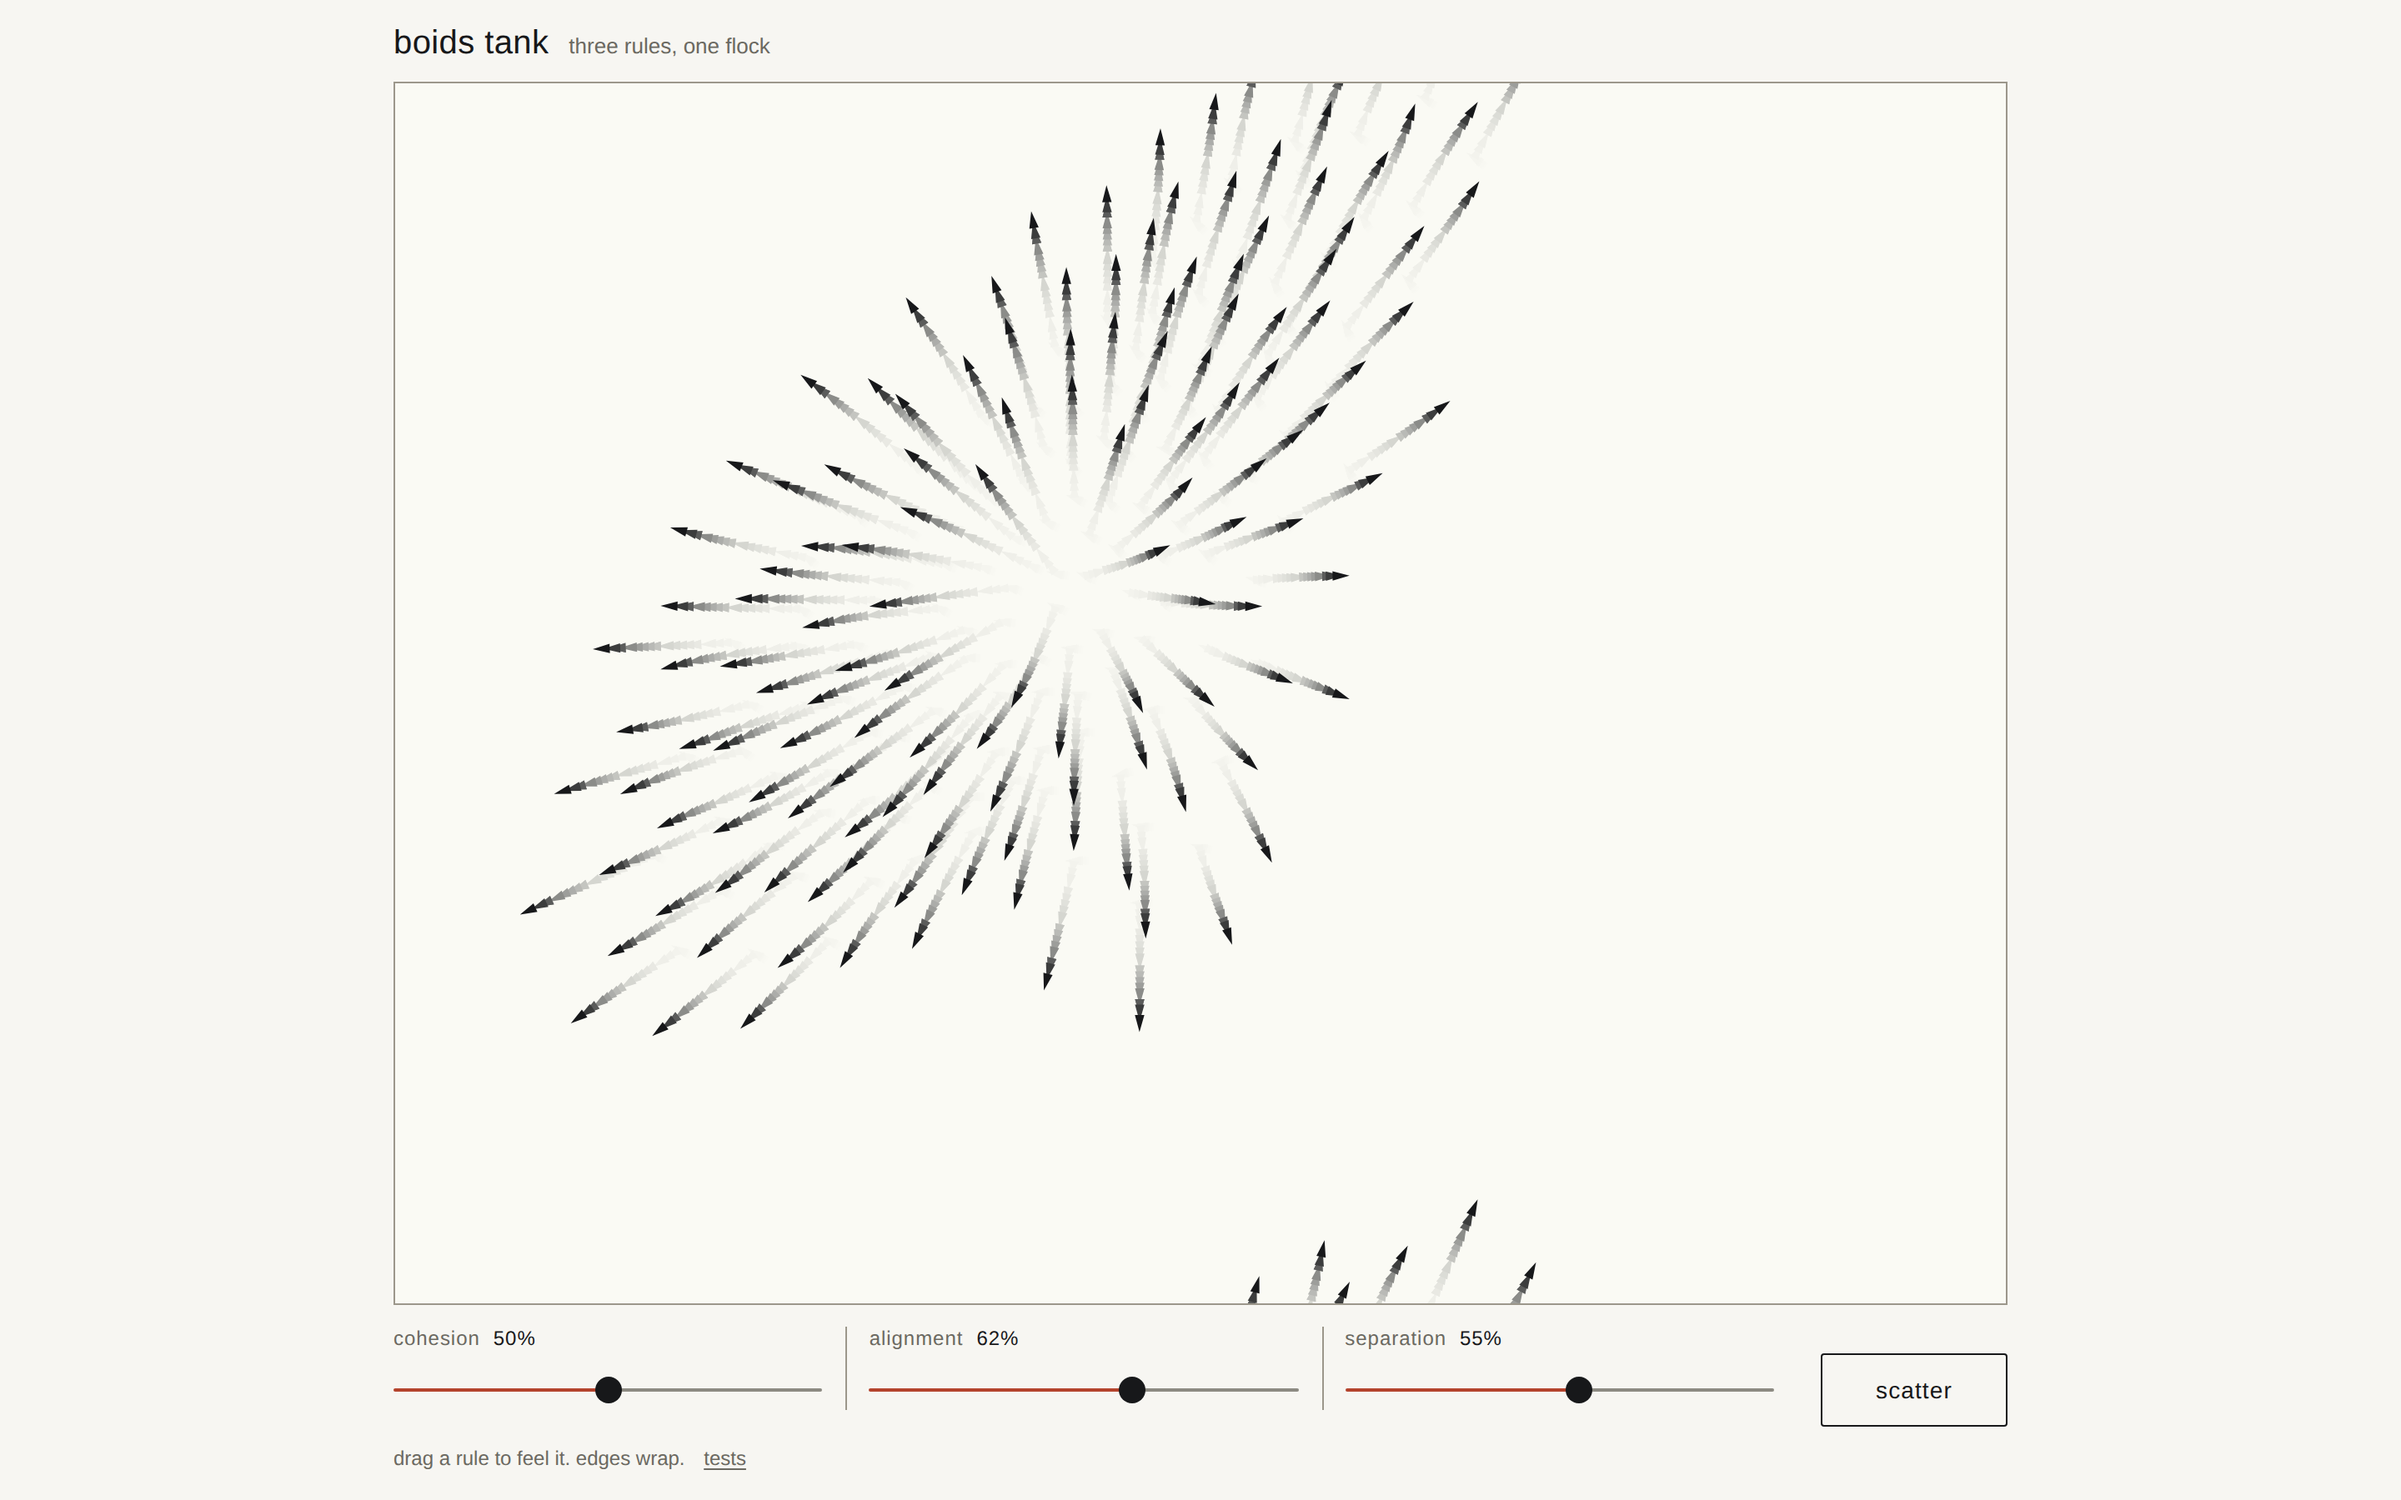
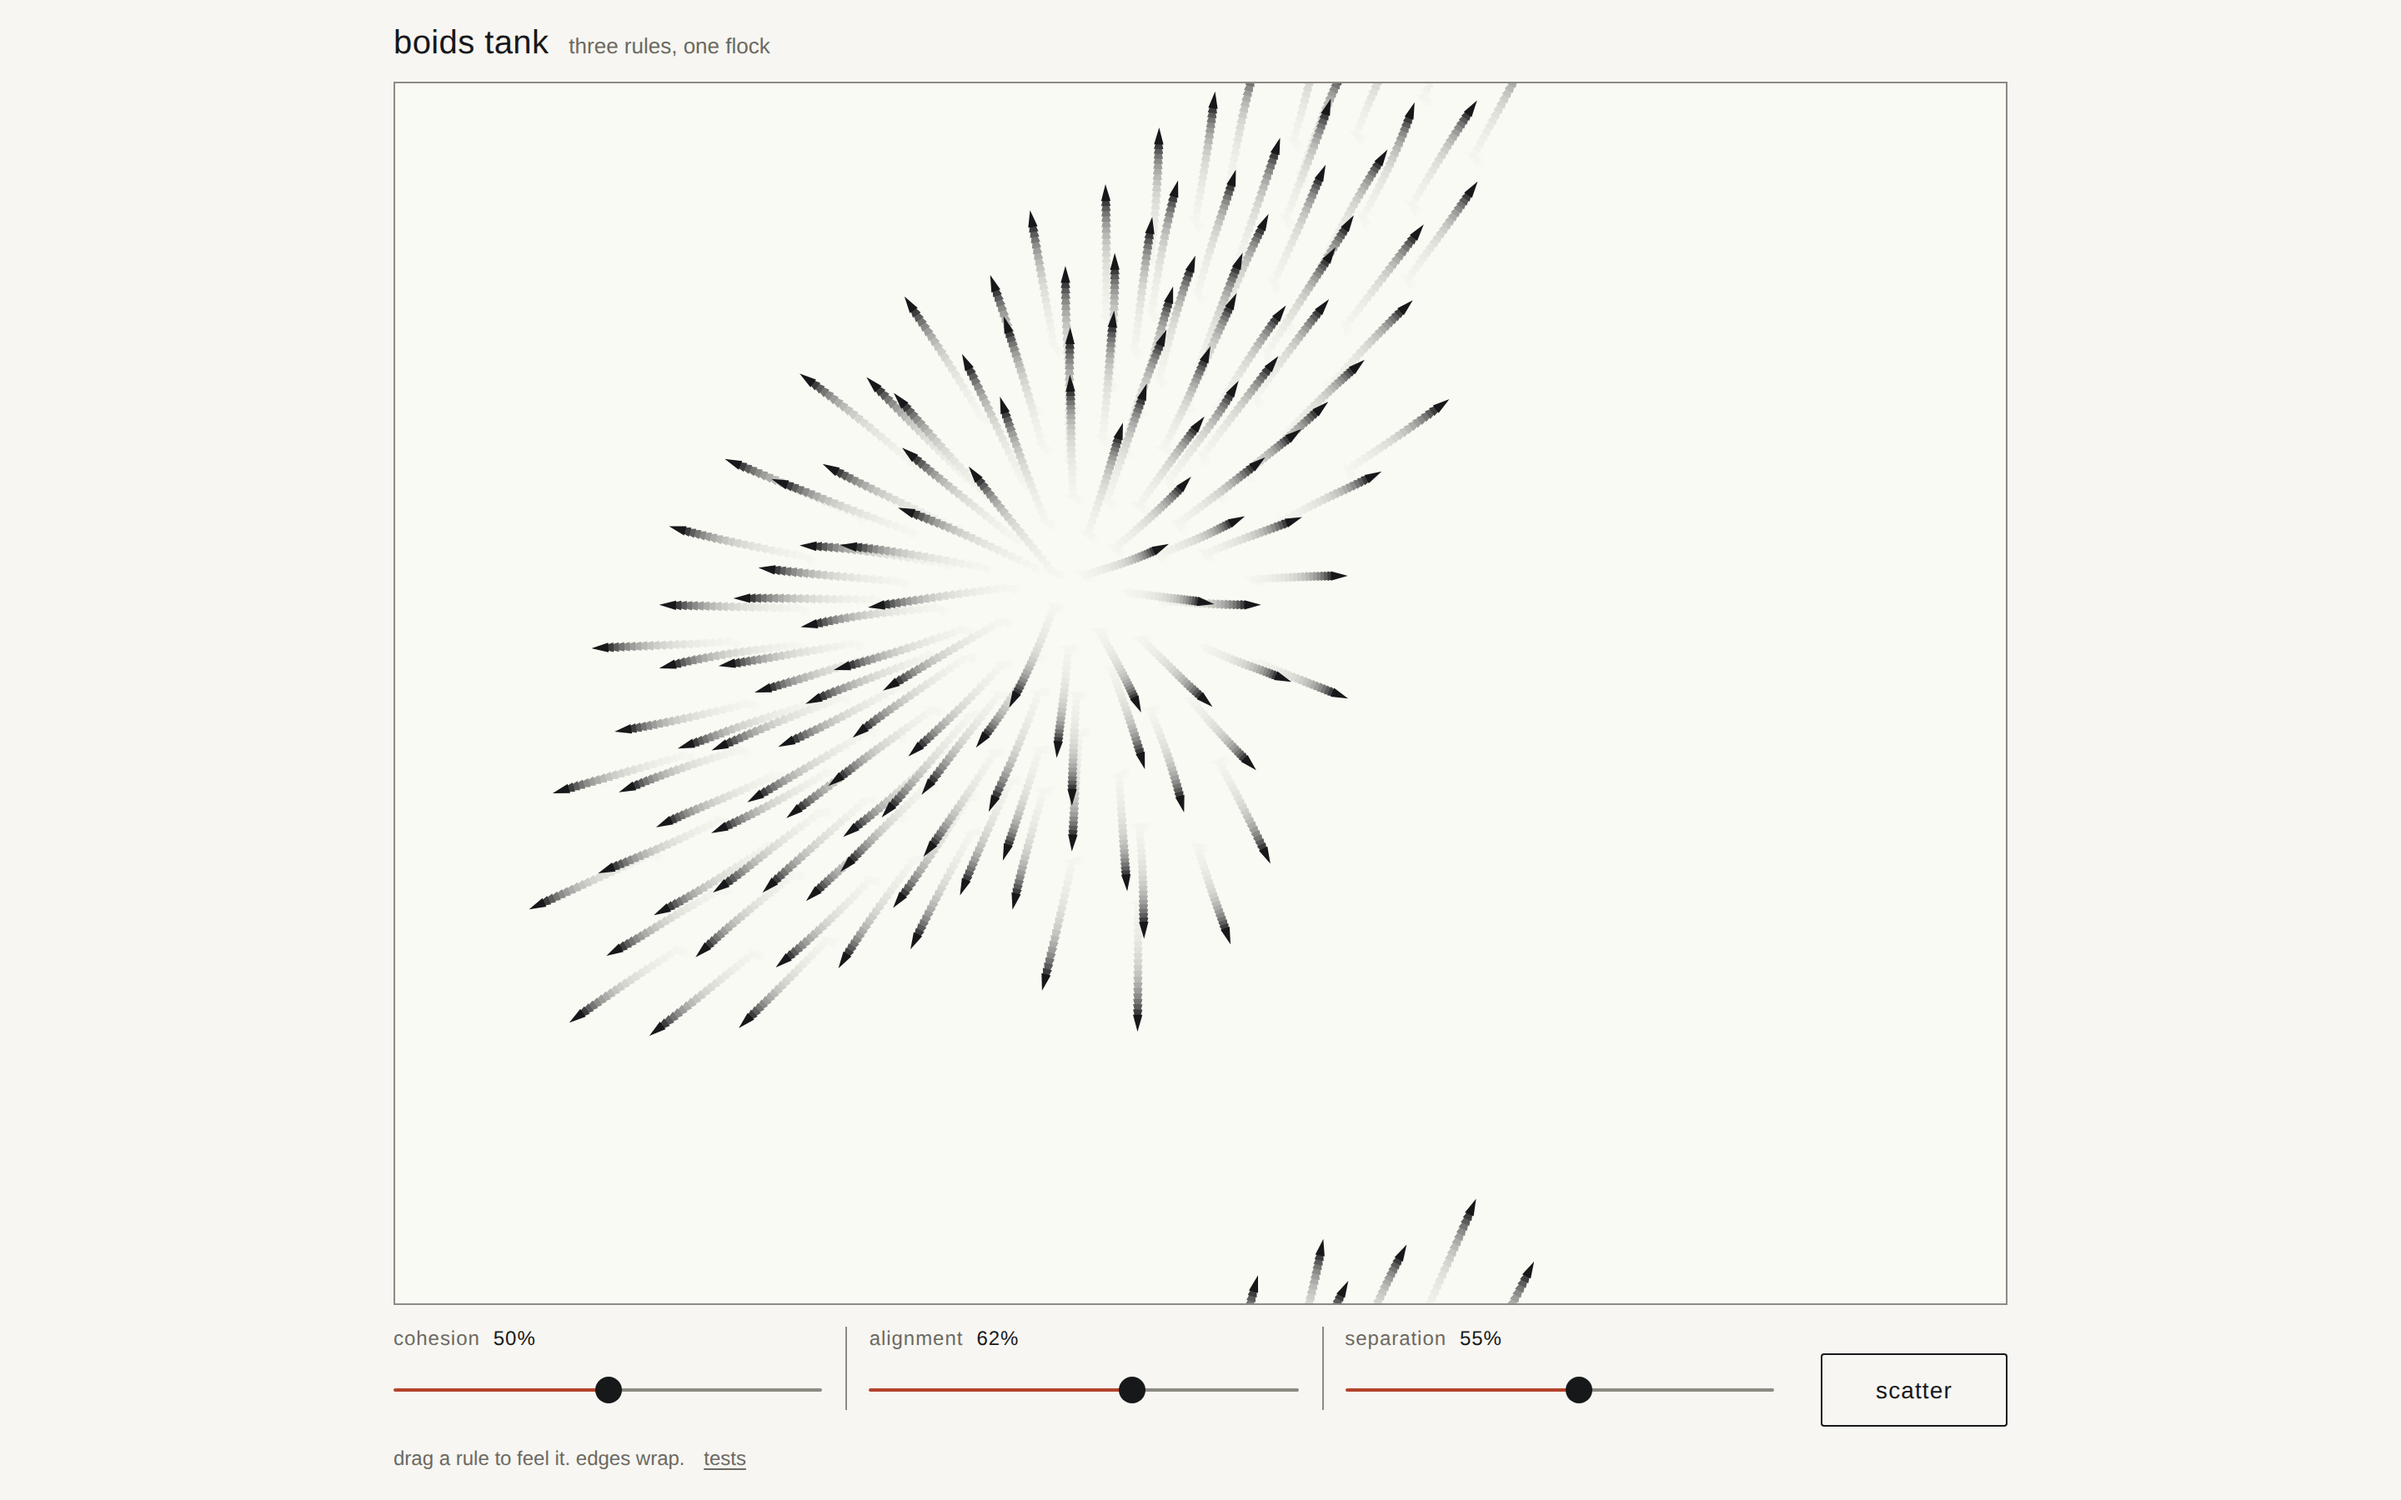
contrast: the edge is the track's weight, not a fourth grey
The re-vote's argument, taken: 2.69:1 was chosen on the theory that a 50px
gutter rule should sit quieter than a 2px track at equal contrast, but it
misses WCAG 1.4.11's 3:1 for a boundary the footer treats as informational
('edges wrap'), and an A/B at 1:1 could not tell #9c978b from the #8c8a82
already in the palette. Two greys half a ratio apart is a token nobody can
see. --edge is now var(--track): 3.20:1, one fewer grey, and the size
difference does the weighting it was always doing.

Also from the re-vote:
- the comment claimed the gutter rule is 32px tall. It is 50px at desktop
  width; 32px is the --rangeH floor and the rule is never that short. The
  reasoning that cited it is gone with it.
- tests.html is reverted to its shipped colours. Renaming the token there
  darkened the #summary box, and no defect was ever filed against the test
  page — it has no tank edge and no gutters to fix.
- screenshot reshot again for the final border, same recipe; alt text now
  places the burst honestly (a little above and left of centre, not 'near
  the middle') and accounts for the darts wrapping in through the bottom
  edge, which a sighted reader can see and the old text did not mention.

diff --git a/index.html b/index.html
@@ -20,11 +20,16 @@
      * own edge and the gutter hairlines between controls. Both were #ddd9d0
      * — 1.30:1 against the paper, under every threshold there is. The footer
      * said "edges wrap" about a border nobody could find, and the separators
-     * came out fainter than the 3.20:1 track they separate. 2.69:1 is a line
-     * you can see while staying quieter than the track, which is correct
-     * weighting rather than a compromise: the gutter rule is 32px tall and
-     * the track is 2px, so equal contrast would not be equal presence. */
-    --edge: #9c978b;
+     * came out fainter than the 3.20:1 track they separate.
+     *
+     * Deliberately the same value as --track rather than a fourth grey. The
+     * first attempt sat at #9c978b, 2.69:1, on the theory that a 50px rule
+     * should be quieter than a 2px track at equal weight — but 2.69 misses
+     * WCAG 1.4.11's 3:1 for a boundary the footer treats as informational,
+     * and at 1px nobody can tell the two greys apart anyway. The size
+     * difference already does the weighting; a second grey 0.5:1 away from
+     * the first only adds a token nobody can see. */
+    --edge: var(--track);
     --accent: #b4432c;
   }
 

diff --git a/tests.html b/tests.html
@@ -6,7 +6,7 @@
 <title>boids tank — tests</title>
 <link rel="icon" href="data:,">
 <style>
-  :root { --paper:#f7f6f2; --ink:#17181a; --muted:#6b6961; --edge:#9c978b; --accent:#b4432c; }
+  :root { --paper:#f7f6f2; --ink:#17181a; --muted:#6b6961; --rule:#ddd9d0; --accent:#b4432c; }
   * { box-sizing: border-box; }
   body {
     margin: 0;
@@ -19,7 +19,7 @@
   main { max-width: 760px; margin: 0 auto; }
   h1 { font-size: 15px; font-weight: 500; letter-spacing: 0.02em; margin: 0 0 4px; }
   p.lede { margin: 0 0 20px; font-size: 13px; color: var(--muted); }
-  #summary { font-size: 14px; padding: 10px 12px; border: 1px solid var(--edge); margin-bottom: 18px; }
+  #summary { font-size: 14px; padding: 10px 12px; border: 1px solid var(--rule); margin-bottom: 18px; }
   #summary.fail { border-color: var(--accent); color: var(--accent); }
   ol { margin: 0; padding-left: 22px; font-size: 13px; }
   li { padding: 2px 0; }

diff --git a/README.md b/README.md
@@ -2,11 +2,12 @@
 
 A tank of flocking darts you can tune while they fly — three sliders for the three rules that make a flock, and a button that blows it apart.
 
-![The tank a quarter-second after scatter: about 140 dark darts flying
-outward from one point near the middle of a pale field, each dragging a long
-ink trail behind it, so the burst reads as a starburst of lines. Below the
-tank, three labelled sliders — cohesion 50%, alignment 62%, separation 55% —
-and a scatter button.](screenshot.png)
+![The tank a quarter-second after scatter: 140 dark darts flying outward from
+a single point a little above and left of the field's centre, each dragging a
+long ink trail behind it, so the burst reads as a starburst of lines. A
+handful more rise through the bottom edge, having wrapped round from the top.
+Below the tank, three labelled sliders — cohesion 50%, alignment 62%,
+separation 55% — and a scatter button.](screenshot.png)
 
 **[Live demo](https://yinggarykairui.github.io/boids-tank/)**
 
